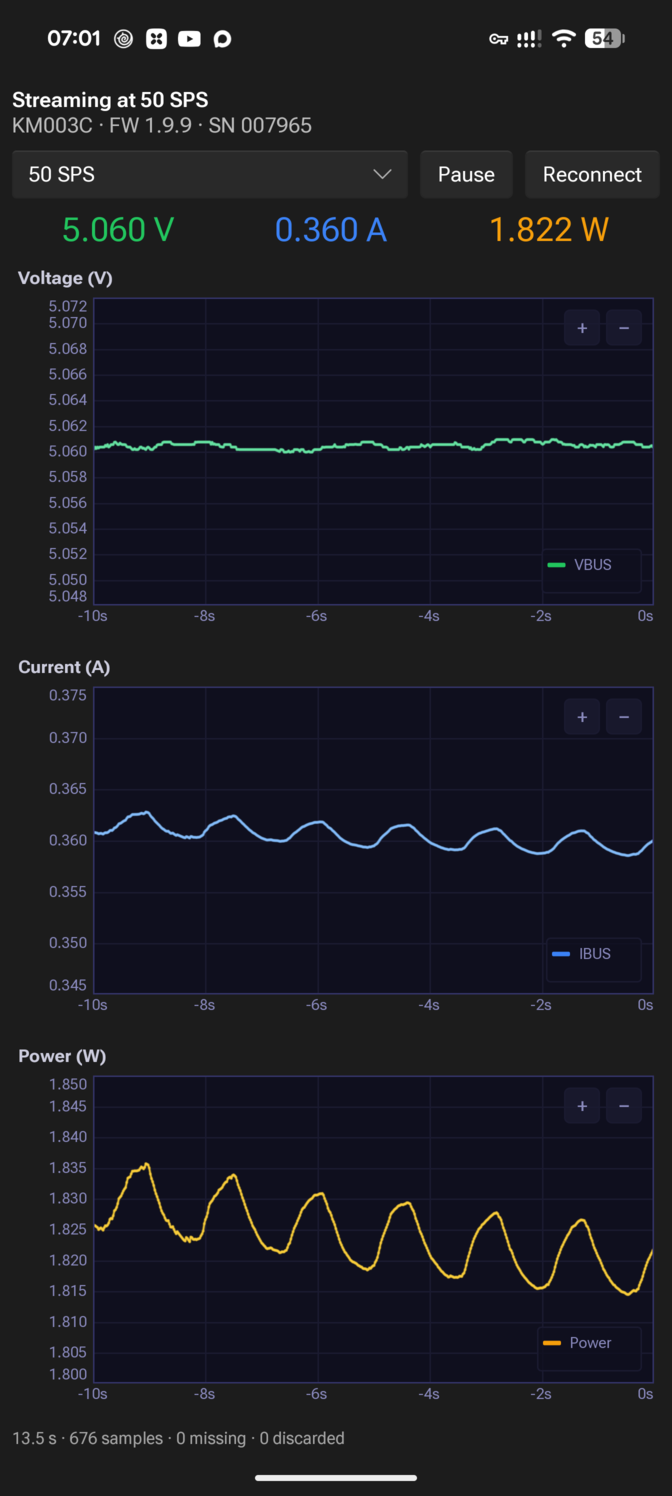
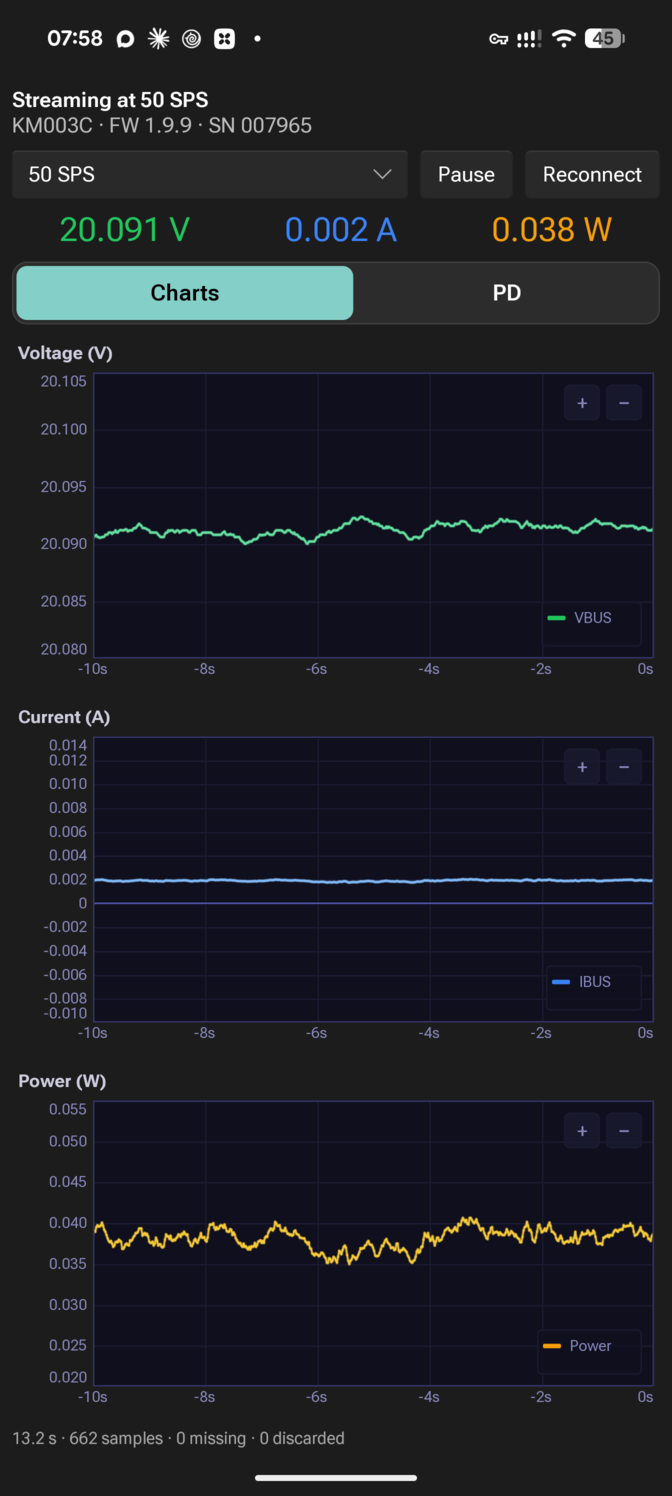
Document the Slint PD tab with a new set of screenshots
Both READMEs describe the PD tab, and the chart screenshots are retaken with
the tab switcher; a third screenshot shows the PD tab mid-negotiation.

diff --git a/km003c-slint/README.md b/km003c-slint/README.md
@@ -5,8 +5,9 @@ KM003C. It runs on desktop and on Android phones with USB host support, with
 the meter plugged into the phone.
 
 <p align="center">
-  <img alt="km003c-slint on Android, light theme" src="../assets/km003c-slint-android-light.png" width="45%">
-  <img alt="km003c-slint on Android, dark theme" src="../assets/km003c-slint-android-dark.png" width="45%">
+  <img alt="km003c-slint on Android, charts in the light theme" src="../assets/km003c-slint-android-light.png" width="30%">
+  <img alt="km003c-slint on Android, charts in the dark theme" src="../assets/km003c-slint-android-dark.png" width="30%">
+  <img alt="km003c-slint on Android, PD tab" src="../assets/km003c-slint-android-pd.png" width="30%">
 </p>
 
 It plots voltage, current and power from the AdcQueue stream at 2, 10, 50 or
@@ -25,9 +26,16 @@ breaks in the line rather than being joined across.
   arriving.
 - The device reconnects on its own when it is replugged.
 - The status line counts received, missing and discarded samples.
+- On Android the screen stays on while the app is in front.
+
+The PD tab shows whether a sink is attached, the CC1/CC2 and VBUS readings,
+the power contract as the negotiation establishes it, and the PD message log
+in time order. Tapping a message expands its PDOs or RDO; GoodCRC
+acknowledgements are hidden by default. The log uses `pd_log` from
+`km003c-lib`, the same formatter as the egui timeline.
 
 Not yet ported from `km003c-egui`: recording to Parquet/CSV, offline logs, the
-PD timeline, and metric selection per chart.
+firmware PD trace, and metric selection per chart.
 
 ## Desktop
 

diff --git a/README.md b/README.md
@@ -84,15 +84,19 @@ A second GUI built with [Slint](https://slint.dev) that also runs on Android
 phones, with the meter plugged into the phone:
 - Live voltage, current and power charts rendered on the GPU, at up to 1000 SPS
 - Pinch or scroll to zoom, double tap to pause, drag to pan through history
+- PD tab with sink detection, CC readings, the negotiated contract and the
+  PD message log
 - Automatic reconnection when the device is replugged
-- Shares the device session and measurement stream with `km003c-egui`
+- Shares the device session, measurement stream and PD log formatter with
+  `km003c-egui`
 
-It lacks recording, offline logs and the PD timeline so far. See
+It lacks recording, offline logs and the firmware PD trace so far. See
 [`km003c-slint/README.md`](km003c-slint/README.md) for the Android build.
 
 <p align="center">
-  <img alt="km003c-slint on Android, light theme" src="assets/km003c-slint-android-light.png" width="35%">
-  <img alt="km003c-slint on Android, dark theme" src="assets/km003c-slint-android-dark.png" width="35%">
+  <img alt="km003c-slint on Android, charts in the light theme" src="assets/km003c-slint-android-light.png" width="30%">
+  <img alt="km003c-slint on Android, charts in the dark theme" src="assets/km003c-slint-android-dark.png" width="30%">
+  <img alt="km003c-slint on Android, PD tab" src="assets/km003c-slint-android-pd.png" width="30%">
 </p>
 
 ### Python Bindings
